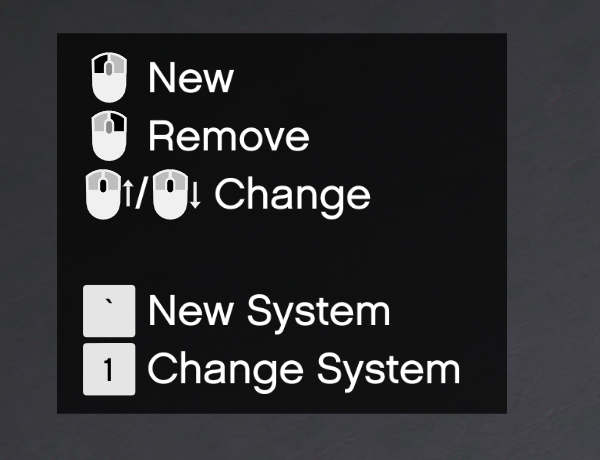
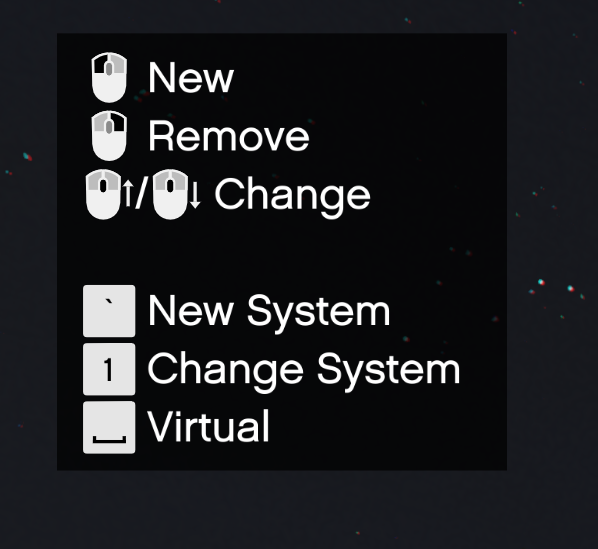
Add FAR changelog

diff --git a/docs/fire-alarm-reborn/changelog.md b/docs/fire-alarm-reborn/changelog.md
@@ -1,0 +1,27 @@
+---
+sidebar_position: 999
+---
+
+# Changelog
+
+## v1.1 - 11/11/2024
+**Added**:
+- `IgnoreProximity` flag for Alarm Systems which removes the warning in the server console when one or more systems are within 30 units of each other.
+:::warning
+We suggest only using this if you're confident you've set up your alarm systems far enough away from each other not to overlap.
+:::
+- Error message to the server console that appears when the `config.cfg` file has not been executed.
+- `triggerPullStationAtPosition` Export which allows for the activation of a random Pull Station of a system within 50 units of the provided position.
+- `getAlarmSystemPasscode` Export which returns just an alarm system's passcode.
+
+**Fixed**:
+- Space Bar missing from the Tool controls helper.
+- Typos 😔
+- Outdated docs link.
+- Bug that prevent all but the first alarm system's control panel from opening.
+- Postal codes not being loaded from alarm system files.
+- Missing sounders in some of the stock resources.
+
+***
+## v1 - 11/11/2024
+Initial resource release.

diff --git a/docs/fire-alarm-reborn/index.md b/docs/fire-alarm-reborn/index.md
@@ -1,5 +1,5 @@
 ---
-sidebar_position: 0
+sidebar_position: 10
 ---
 
 # Fire Alarm Reborn
